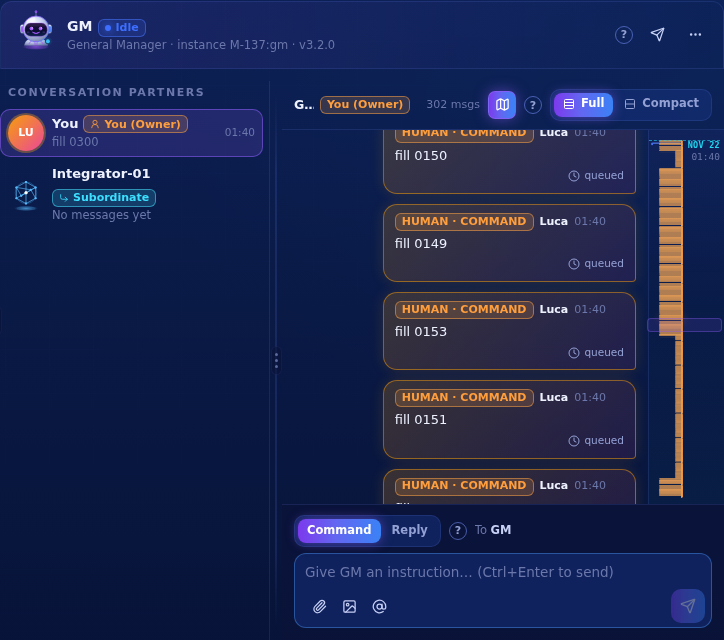
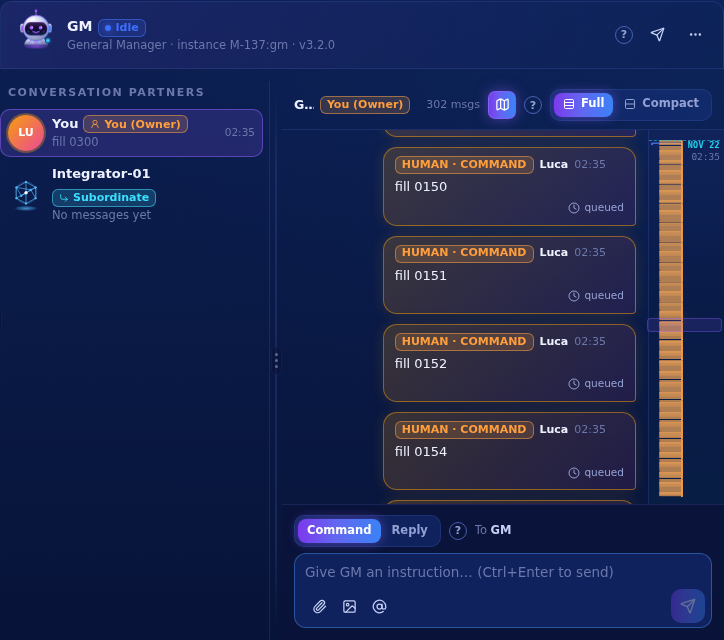
docs(c26): fix round (I1 widths, I2 mixed heights + own scroll anchor, I3 merge notes), regenerated api shots, runs

diff --git a/web/docs/improve/cycles/c26-report.md b/web/docs/improve/cycles/c26-report.md
@@ -197,8 +197,8 @@ the base (a67d2dd, a scratch copy served on 7491):
 | Pair | Before / after | Difference |
 |---|---|---|
 | Demo M-126 conversation | `demo-conv-before.png` / `demo-conv-after.png` | 413 of 463,360 pixels: the first minimap block about 1 px lower (model offset) and the robot avatar's blink |
-| Api thread of 302 messages, pinned | `api-thread-before.png` / `api-thread-after.png` | Same look |
-| Api thread of 302 messages, scrolled to the middle | `api-thread-before-mid.png` / `api-thread-after-mid.png` | Same look; the message order differs only because the burst was posted 10 at a time |
+| Api thread of 302 messages, pinned | `api-thread-before.png` / `api-thread-after.png` | **Corrected in the fix round.** The first-round claim "same look" held for the thread body only: the minimap blocks of rows never rendered were 8 px slivers (review I1). The after shots were regenerated on the fix-round code; the minimap is a full-width column again |
+| Api thread of 302 messages, scrolled to the middle | `api-thread-before-mid.png` / `api-thread-after-mid.png` | As above (regenerated). The message order differs only because the burst was posted 10 at a time |
 
 ## 9. Concerns
 - **Threshold NOT MET** (total and worst). The floor run shows the remaining cost is page- and store-level. Candidates for a
@@ -225,3 +225,135 @@ the base (a67d2dd, a scratch copy served on 7491):
   scroll anchoring keeps the visible rows in place meanwhile. Pinned readers are re-pinned explicitly, because anchoring does
   not move a scroller that sits at its end.
 - **api-c09 was not run:** it is not in the base.
+
+## Fix round (review c26-review.md)
+The timing threshold stays **NOT MET**. The fix round changes no timing claim.
+
+App code is final at 48e9731; the last commit, 048c19f, is test-only.
+
+| Commit | What |
+|---|---|
+| afd2015 | I1 fix and the I1/I2 checks |
+| 48e9731 | I2 fix: the thread's own scroll anchor; a tall focused message shows its start |
+| cb8020f | Scroll-back check on the mixed thread |
+| 048c19f | api-c22 condition wait |
+
+### I1: minimap blocks of rows never rendered (fixed)
+**Model (`threadWindow.ts`).** Rows not measured yet now take their estimates from the measured rows of the same message
+kind:
+- the height (spacer and block) and the block width are each the mean of the first 30 measured rows of that kind;
+- before a kind has any measured row, they fall back to the mean of all measured rows, then to the old first guess;
+- the means are then held, so the spacers and the minimap do not churn;
+- they are learned again when the thread's width changes (text re-wraps). The cache clears, the estimates restart, and the
+  rows on screen are measured again at once (`relearn`, `ChatView` ResizeObserver).
+
+**New check (api-c26 `widths`).** On a long thread with the reader at the bottom, every minimap block of a row not on
+screen must be within ±25 % of the mean measured width of its kind. The same check runs after the thread gets narrower
+(viewport 1600 → 1480, thread 366 → 274 px), and the mean must be over 4 px, so a hidden minimap cannot pass.
+
+| Run | Reader at the bottom | After the thread got narrower |
+|---|---|---|
+| **RED** (82eef4a app code, 1,002 messages) | 936 of 986 off-screen blocks outside ±25 %: 8.2 px against a 23.5 px mean | 986 of 988 outside |
+| **GREEN** (48e9731, 1,202 messages) | 0 of 1,186 outside, all 23.5 px | 0 of 1,189 outside, all 26.7 px |
+
+**Report §8 corrected.** "Same look" was true for the demo pair only. The api after-shots were regenerated on the
+fix-round code, and the minimap is a full-width column again.
+
+### I2: mixed heights (a bug found and fixed)
+**New api-c26 `mixed()` pass.** A fresh thread of 240 messages, rotating through:
+- one line;
+- a 90-word paragraph;
+- a 20-line message;
+- three lines;
+- a 30-word line;
+- an 8-line list;
+- a PNG attachment on every 6th message (uploaded through `/uploads`).
+
+It asserts:
+1. after a reload, the reader is pinned and stays pinned for 3 s;
+2. each older page keeps the visible message in place (±8 px). The page request is **held until the test has recorded the
+   message**, which answers review Minor 5's timing window;
+3. a top-to-bottom walk renders all 242 messages in order, never with a blank viewport;
+4. scrolling up 1,200 px and back puts the same message at the same place (±3 px);
+5. Home, End, Home and ↓×25 each focus the right message and show it in the viewport;
+6. minimap blocks match the rendered rows within 1.5 px, in the middle and at the bottom.
+
+**What it found.**
+- **First older page jumped (RED on 82eef4a).** The message moved 74.8, 188, 589.8 and 100 px in four runs; later pages
+  stayed under 1 px.
+  - The app restored the anchor correctly; that was confirmed by instrumentation that was not committed.
+  - The scroll event from that restore then mounted rows above with real heights far from the estimates. The browser's scroll
+    anchoring did not compensate a scroll set by code that was followed at once by rows mounting above.
+  - **Fix:** the thread keeps its own anchor, and `overflow-anchor` is now `none` on `.thread-body`. The first visible row and
+    its offset are recorded on every scroll and after every change. After each commit, and in the ResizeObserver when a
+    rendered row changes size, the scroll position follows that row, provided nobody scrolled in between (the recorded
+    `scrollTop` is unchanged) and the reader is not pinned to the bottom.
+- **End left a tall message's top out of view (RED on 82eef4a).** The last message is 20 lines plus an image, taller than
+  the 374 px view, and `scrollIntoView({ block: 'nearest' })` showed its bottom. **Fix:** a focused message taller than the
+  view now shows its start.
+- **GREEN on 48e9731:** older pages 0.3 / 0.1 / 0.4 / 0.4 px; walk 242/242 with 0 blank viewports; scroll-back 0.0 px;
+  keyboard all four ok; minimap 0 of 11 and 0 of 5 blocks off; pinned 0 px throughout.
+
+### I3: merging with c25 (now on improve-30h, aaa18f6). Not done here, as instructed
+**`web/src/features/chat/ChatView.tsx`**
+- **c25's changes:**
+  - `requestOlder` is split into `captureAnchor(el)` plus `requestOlder` (improve-30h lines 225–234);
+  - the `onScroll` one-liner gains `if (loadingOlder && anchor.current) captureAnchor(el);` (improve-30h line 261);
+  - the bubble's **Reply…** passes `replyTo: m.id` (line 92). That is a separate fix and should merge cleanly.
+- **c26's changes:** `requestOlder` is at c26 line 410, and the whole `onScroll` handler is rewritten (c26 lines 509–517):
+  `record()`, `far`, `flushSync(moveVp)` before `requestOlder`, and `moveVp` otherwise.
+- **How to combine:** keep c25's `captureAnchor` helper. In c26's handler, put c25's re-capture **after the window has
+  followed the scroll**, so the anchor is a row the reader can see:
+
+      const el = ev.currentTarget; const b = …; setAtBottom(b); if (b) setNewCount(0);
+      atBottomRef.current = b; record();
+      const far = Math.abs(el.scrollTop - vpRef.current.top) > DRIFT || el.clientHeight !== vpRef.current.h;
+      const atTop = el.scrollTop < 80;
+      if (far && (atTop || (loadingOlder && anchor.current))) flushSync(() => moveVp(el)); // render the rows first
+      else if (far) moveVp(el);
+      if (loadingOlder && anchor.current) captureAnchor(el); // c25: a slow page; the anchor follows the reader
+      if (atTop) requestOlder(el);                           // c26 + c25: requestOlder calls captureAnchor
+
+- **Interaction with c26's own anchor:** c26's `hold()` does not conflict with c25's restore. The restore effect sets
+  `scrollTop`, and `hold()` then sees a changed `scrollTop` and only records.
+
+**`web/scripts/api-stage6.mjs` paging loop**
+- **c25's changes:**
+  - `await calm(A.p)` replaces `waitForTimeout(400)` after the page grows (improve-30h line 254) and `waitForTimeout(200)`
+    after "leave the top" (line 259, and line 303 in the gap section);
+  - adds `import { calm } from './_session.mjs'`.
+- **c26's changes to the same loop (c26 lines 260–276 and 318–326):**
+  - counts use `loaded()`, not `mids()`;
+  - the anchor is captured after two animation frames;
+  - adds the `reach()` walk.
+- **How to combine:** take c26's version of those lines and replace its two remaining `waitForTimeout(400/200)` calls
+  (c26 lines 271, 276, 326) with `await calm(A.p)`.
+
+**After the merge:** run api-stage6, api-c22, api-c26, api-c09 (now on improve-30h), api-improve, a11y-check (demo and
+api), flows and verify-all on the merged tree.
+
+### Review minor items
+- **Minor 1 (documented, not changed).** The user's own messages and receipt changes ("queued" → "acknowledged") are no
+  longer announced: the log is `aria-live=off`, and the status line skips own and pending messages. Failed sends still raise
+  a toast.
+- **Minor 2 (open).** There is no announcer fallback when the previous last message is gone, and a repeat of identical
+  text is not re-read.
+- **Minors 3 and 4 (open).** Screen-reader browse mode and Safari, which has no CSS scroll anchoring, are untested. c26 no
+  longer relies on the browser's anchoring: the thread keeps its own anchor.
+- **Minor 5 (fixed in the mixed pass).** The page request is held until the anchor is recorded. The stage6 and c22 loops
+  keep the two-frame capture.
+
+### Runs on the fix-round code (all through heavy.sh, lane stack 7492/7493, dev 7490)
+| Check | Result |
+|---|---|
+| **api-c26**, FILL 1,000, 3 reps | 19/19 behaviour checks (10 earlier + announcer + I1 ×2 + I2 ×6), page errors 0 |
+| api-c26 timing (load fell from about 45 to 10 during the run) | whole trace 1,575 / 1,121 / 1,252 ms (mean 1,316), worst 814 / 429 / 594 ms: **NOT MET** (≤ 30 % of 2,958 = 887 ms; ≤ 200 ms) |
+| api-c26 SHOT run (FILL 300, regenerating the after shots) | 13/13 |
+| **api-stage6** | 92/94 in the first run (load ~16): the two failures were the designer-01 Edit version step, the known flake recorded in c01 and c22. **94/94** on re-run |
+| **api-c22** | First run 13/14 (load ~16): N=1,000 "scrolling up loads the next older page" stayed 50 → 50 |
+| api-c22, the 50 → 50 failure | Suspected cause: the store held the reloaded page before the thread had rendered and pinned it, so the jump to the top came before the pin. Unproven: the failure did not recur, so I could not confirm the race. Hardened with a condition wait (048c19f) |
+| api-c22 re-runs | **10/10** (REPS 1) and **14/14** (REPS 3); reload → interactive 1.6–1.8 s (130) and 1.7–2.1 s (1,000) |
+| **api-improve** | **107/107** |
+| **a11y-check, api** | 1 LIVEPROBE in each of two runs at load 16–21, on other pages, both page probes outside the thread (`/agents/coder-01` and the proposals page) still showing the lazy page skeleton "Loading…" after `settle(400)`. **0 violations** at load 8 |
+| **a11y-check, demo** | **0 violations** (50 views, 55 dialogs) |
+| **verify-all** | **ALL 10 STEPS PASSED**, rc 0 |
